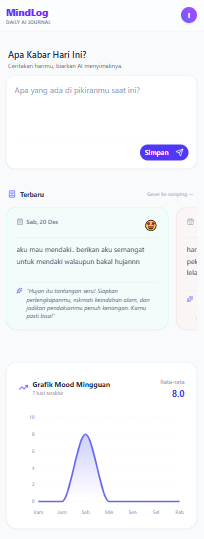
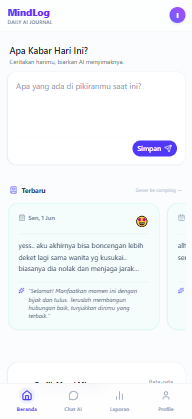
feat: update readme with new image preview

diff --git a/README.md b/README.md
@@ -14,10 +14,16 @@
 
 ## ✨ Fitur Utama
 
-- **📝 Smart Journaling** — Tulis ceritamu hari ini dengan antarmuka yang bersih dan fokus (Mobile First Design).
-- **🤖 AI Mood Analysis** — Google Gemini AI membaca jurnalmu, memberikan skor mood (1-10), label emosi, dan saran singkat yang empati.
+- **📱 Mobile First Experience** — Seluruh layout dan komponen di-redesign sepenuhnya dengan pendekatan *mobile-first*, menghadirkan tampilan UI/UX yang modern, *clean*, dan lebih mudah dinavigasikan melalui navigasi bawah (*Bottom Navigation*).
+- **🧭 Ekosistem Dasbor Lengkap** — Telah terintegrasi dengan struktur multi-halaman untuk pengalaman jurnal yang lebih komprehensif:
+  - **Dashboard**: Tampilan utama untuk *journaling* cepat dan performa emosional harian.
+  - **Chat AI**: Ruang interaktif eksklusif untuk ngobrol dengan AI secara personal.
+  - **Report**: Laporan mendalam terkait perubahan *mood* dan statistik mingguan.
+  - **Profile**: Halaman manajemen data profil.
+- **📝 Smart Journaling** — Tulis ceritamu hari ini dengan antarmuka yang bersih dan bebas distraksi.
+- **🤖 AI Mood Analysis** — Google Gemini AI membaca jurnalmu, memberikan skor mood (1-10), label emosi, dan saran singkat yang berempati.
 - **📊 Weekly Mood Chart** — Visualisasi grafik perubahan emosi mingguanmu, lengkap dengan rata-rata skor.
-- **🔐 Secure & Private** — Data tersimpan aman menggunakan Supabase Auth (Magic Link) & PostgreSQL dengan Row Level Security.
+- **🔐 Secure & Private** — Data tersimpan aman menggunakan Supabase Auth (Magic Link) & PostgreSQL dengan Row Level Security. Sistem *session handling* diproteksi dan diarahkan otomatis (*route-based redirect*) oleh *middleware*.
 - **⚡ Modern Tech Stack** — Dibangun dengan Next.js 15 (App Router), Server Actions, dan Turbopack untuk performa maksimal.
 
 ---
@@ -38,43 +44,33 @@
 
 ---
 
-## 📁 Struktur Proyek
+## 📁 Struktur Proyek Terkini
 
-```
+```text
 mindlog-ai/
 ├── src/
 │   ├── actions/              # Server Actions (AI, Auth, Journal)
-│   │   ├── ai-actions.ts     # Gemini AI mood analysis
-│   │   ├── auth-actions.ts   # Login & logout handlers
-│   │   └── journal-actions.ts# CRUD operasi jurnal
 │   ├── app/
-│   │   ├── (auth)/login/     # Halaman login (Magic Link)
-│   │   ├── (dashboard)/      # Halaman dashboard (protected)
+│   │   ├── (auth)/login/     # Halaman login yang responsif (Magic Link)
+│   │   ├── (dashboard)/      # Layout berpelindung dengan Bottom & Top Nav
+│   │   │   ├── chat/         # Halaman interaksi Chat AI
+│   │   │   ├── dashboard/    # Tampilan utama dashboard jurnal & chart
+│   │   │   ├── profile/      # Halaman manajemen profil
+│   │   │   ├── report/       # Halaman analitik dan laporan lengkap
+│   │   │   └── layout.tsx    # Layout utama yang membungkus komponen navigasi global
 │   │   ├── auth/callback/    # OAuth callback handler
 │   │   ├── globals.css       # Tailwind CSS + theme variables
 │   │   ├── layout.tsx        # Root layout
-│   │   └── page.tsx          # Redirect ke /dashboard
+│   │   └── page.tsx          # Autoredirect didorong middleware
 │   ├── components/
-│   │   ├── features/         # Komponen fitur spesifik
-│   │   │   ├── AnalyzeButton.tsx
-│   │   │   ├── CreateEntryForm.tsx
-│   │   │   ├── JournalCard.tsx
-│   │   │   └── MoodChart.tsx
-│   │   ├── shared/           # Komponen shared/layout
-│   │   │   ├── DashboardHeader.tsx
-│   │   │   └── UserNav.tsx
-│   │   └── ui/               # shadcn/ui primitives
-│   ├── db/
-│   │   ├── index.ts          # Database connection (Drizzle)
-│   │   └── schema.ts         # Table definitions
-│   ├── lib/
-│   │   ├── helpers/mood.ts   # Mood utilities & chart data prep
-│   │   ├── supabase/server.ts# Supabase server client
-│   │   └── utils.ts          # General utilities (cn)
-│   └── types/
-│       └── index.ts          # Shared TypeScript types
-├── middleware.ts              # Supabase Auth session refresh
-├── drizzle.config.ts         # Drizzle Kit configuration
+│   │   ├── features/         # Komponen logika fitur (AnalyzeButton, MoodChart, dsb.)
+│   │   ├── shared/           # Navigasi UI global (BottomNav.tsx, TopNav.tsx, UserNav.tsx)
+│   │   └── ui/               # Primitif komponen UI (dari shadcn)
+│   ├── db/                   # Koneksi dan definisi schema Drizzle ORM
+│   ├── lib/                  # Utilitas, helper, dan koneksi Supabase Server
+│   └── types/                # Definisi TypeScript yang disinkronisasi
+├── middleware.ts             # Route-based authentication redirects & session management
+├── drizzle.config.ts         # Konfigurasi Drizzle Kit
 └── package.json
 ```
 
@@ -83,10 +79,10 @@ mindlog-ai/
 ## 🏗️ Architecture Decisions
 
 - **Server Actions** — Semua mutasi data (create entry, analyze mood, auth) menggunakan React Server Actions, bukan API routes. Lebih type-safe dan menghilangkan boilerplate fetch.
-- **Route Groups** — `(auth)` dan `(dashboard)` memisahkan layout publik dan protected tanpa mempengaruhi URL path.
-- **Drizzle ORM** — Dipilih karena type-safe, ringan, dan SQL-first mindset. Schema didefinisikan sebagai TypeScript, bukan migration files.
+- **Route Groups & Middleware** — Memisahkan layout publik dan terproteksi secara elegan. Didukung dengan pemrosesan sesi rute dalam *middleware* yang secara dinamis me-*redirect* jika status otentikasi belum ada.
+- **Mobile First Design** — Mengusung komponen UI yang ramping (*clean*) dengan struktur CSS utilitas yang optimal untuk orientasi responsif, memastikan tata letak dan ikon proporsional pada seluler (*mobile*).
+- **Drizzle ORM** — Dipilih karena type-safe, ringan, dan SQL-first mindset. Schema didefinisikan sebagai TypeScript.
 - **Component Architecture** — Dibagi 3 layer: `ui/` (primitives dari shadcn), `shared/` (layout/nav), dan `features/` (business logic components).
-- **Centralized Types** — Semua type definitions di `src/types/` menggunakan Drizzle `InferSelectModel` agar selalu sinkron dengan schema database.
 
 ---
 
@@ -134,6 +130,8 @@ mindlog-ai/
 ---
 
 ## 📸 Preview
+
+*Tampilan *Mobile-First* Terkini*
 
 | Login Page | Dashboard |
 |:---:|:---:|